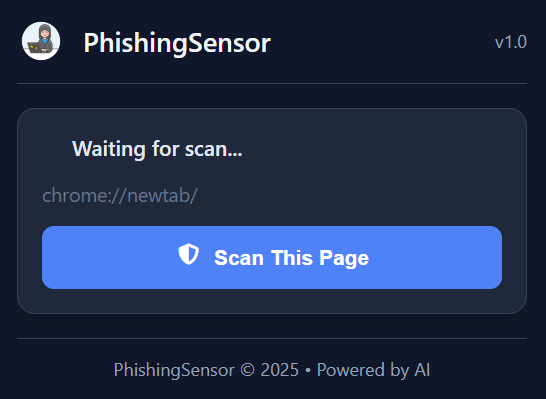
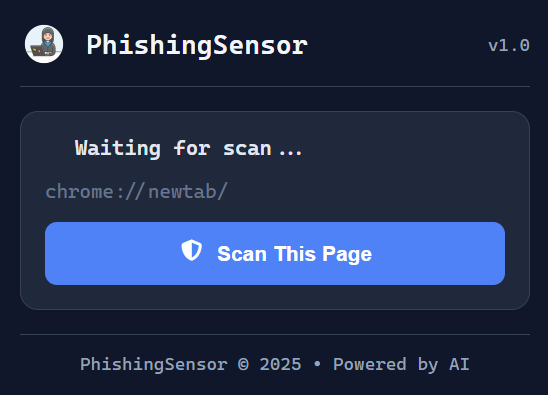
photo updated

diff --git a/project/public/style.css b/project/public/style.css
@@ -1,6 +1,6 @@
 /* PhishingSensor - Modern Professional Style */
 body {
-    font-family: 'Segoe UI', 'SF Pro Display', -apple-system, BlinkMacSystemFont, sans-serif;
+    font-family: 'Cascadia Code', 'Courier New', monospace;
     padding: 16px;
     width: 340px;
     margin: 0;
